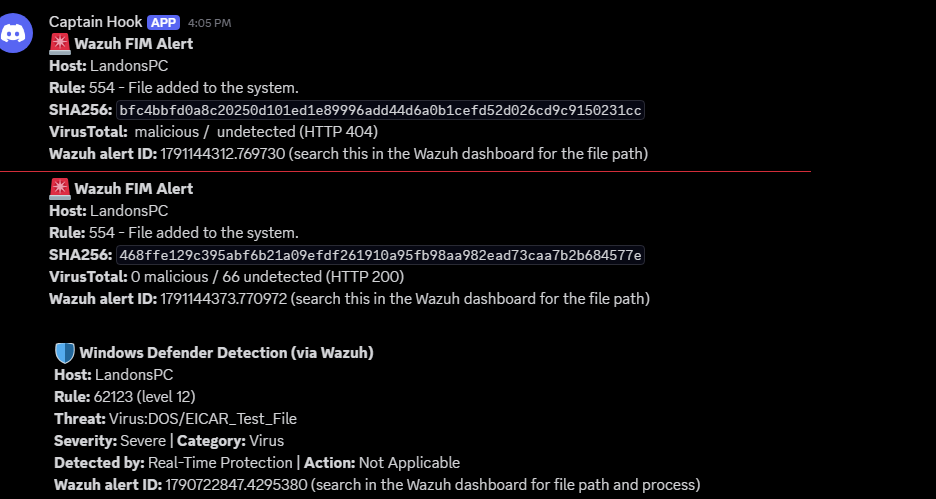
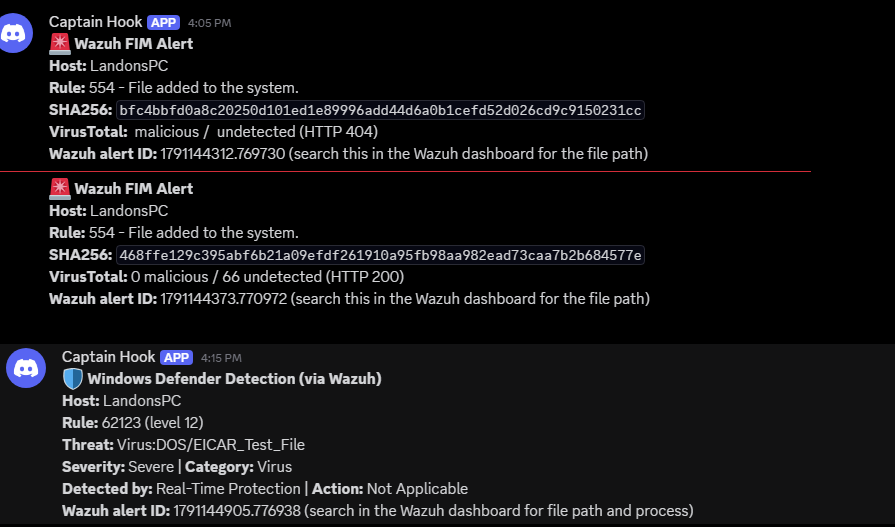
Show live Defender branch alert in Discord screenshot

Changed region(s): [[0.0, 0.0301, 0.724, 0.6313], [0.0, 0.6613, 0.7844, 0.992]]

diff --git a/README.md b/README.md
@@ -99,7 +99,7 @@ Problems I hit getting both stacks running on Docker Desktop for Windows:
 **Discord alerts, from top to bottom:**
 1. A brand-new test file. VirusTotal returns HTTP 404 because it has never seen the hash, which is expected.
 2. A copy of `notepad.exe`. VirusTotal knows the hash and reports **0 malicious / 66 undetected**.
-3. Windows Defender catching the EICAR test file (rule 62123, level 12).
+3. Windows Defender catching the EICAR test file (rule 62123, level 12), routed through the Defender branch.
 
 ![Discord alerts](docs/screenshots/discord-alert.png)
 
